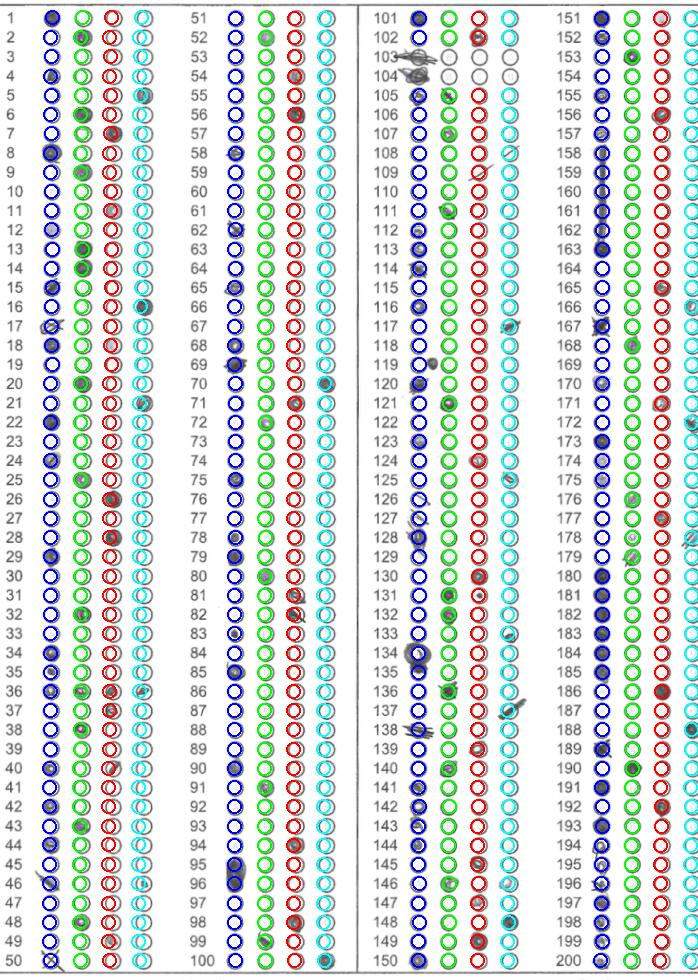
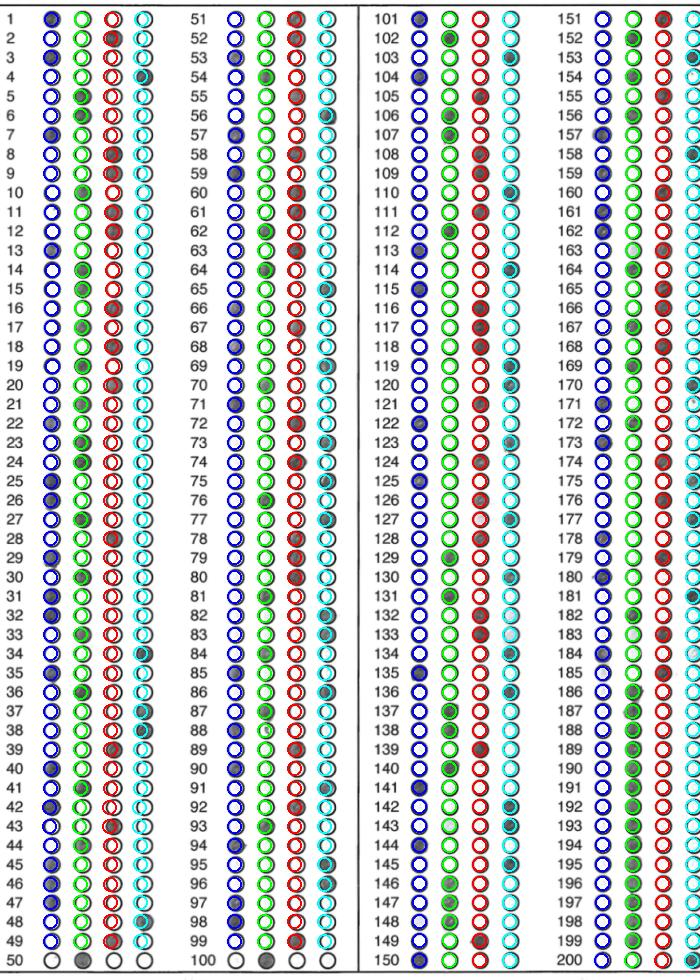
pb traitement d'image, amélioration détection marqueur et detection numéro étudiant

diff --git a/back_end/app/Routes/correction.py b/back_end/app/Routes/correction.py
@@ -205,37 +205,29 @@ def img_show(img, window_name, width=None, height=None):
 
 def preprocess(image):
     """
-    Prétraite une image pour la détection des contours.
-    
-    Args:
-        image: Image d'entrée BGR
-        
-    Returns:
-        Tuple contenant l'image en niveaux de gris et les contours détectés
+    Prétraite une image pour la détection des contours avec normalisation de l'éclairage.
     """
-    # Appliquer un filtre bilatéral pour réduire le bruit
-    blurred = cv2.bilateralFilter(image, 2, 200, 200)
+    # 1. Filtre bilatéral pour réduire le bruit tout en gardant des bords nets
+    # (J'ai légèrement augmenté les paramètres pour mieux lisser le grain de papier)
+    blurred = cv2.bilateralFilter(image, 9, 75, 75)
     
-    # Convertir en niveaux de gris
+    # 2. Convertir en niveaux de gris
     gray = cv2.cvtColor(blurred, cv2.COLOR_BGR2GRAY)
 
-    # Détecter les contours
-    edged = auto_canny(gray)
+    # 3. NOUVEAU : Normalisation du contraste (CLAHE)
+    # Permet de rattraper les zones d'ombre ou de sur-exposition du scan
+    clahe = cv2.createCLAHE(clipLimit=2.0, tileGridSize=(8,8))
+    gray_clahe = clahe.apply(gray)
+
+    # 4. Détecter les contours sur l'image corrigée
+    edged = auto_canny(gray_clahe)
     
-    # Dilater les contours pour fermer les petites discontinuités
+    # 5. Dilater puis éroder pour fermer les petites discontinuités (Fermeture morphologique)
     edged_dilate = cv2.dilate(edged, np.ones((3, 3), np.uint8), iterations=1)
-    
-    # Éroder pour affiner les contours
     edged_erode = cv2.erode(edged_dilate, np.ones((3, 3), np.uint8), iterations=1)
 
-    # Décommenter pour afficher les étapes intermédiaires
-    # img_show(blurred, "Blurred Image", height=950)
-    # img_show(gray, "Gray Image", height=950)
-    # img_show(edged, "Edges", height=950)
-    # img_show(edged_dilate, "Dilated Edges", height=950)
-    # img_show(edged_erode, "Eroded Edges", height=950)
-
-    return (gray, edged_dilate)
+    # On renvoie bien gray (pour la suite de ton code) et edged_erode (pour les marqueurs)
+    return (gray, edged_erode)
 
 
 def pdf_to_image(pdf_path, page_num=0, zoom=2.0):
@@ -293,70 +285,139 @@ def contour_center(contour):
         return (cx, cy)
     else:
         return (0, 0)
-
-
 import cv2
 import numpy as np
 
 def find_markers(edged, image=None):
-    """
-    Trouve les marqueurs triangulaires de manière robuste dans une image bruitée.
-    """
-    # 1. Petit nettoyage morphologique pour boucher les trous dans les contours
-    kernel = cv2.getStructuringElement(cv2.MORPH_RECT, (3, 3))
-    closed = cv2.morphologyEx(edged, cv2.MORPH_CLOSE, kernel)
-
-    # 2. Trouver les contours
-    cnts, _ = cv2.findContours(closed.copy(), cv2.RETR_EXTERNAL, cv2.CHAIN_APPROX_SIMPLE)
-    
-    if not cnts or image is None:
+    if image is None:
         return None
 
-    markers = []
-    markers_info = [] # Pour stocker (contour, aire, score_de_proximité)
+    gray = cv2.cvtColor(image, cv2.COLOR_BGR2GRAY)
+    _, thresh = cv2.threshold(gray, 150, 255, cv2.THRESH_BINARY_INV)
+    cnts, _ = cv2.findContours(thresh, cv2.RETR_EXTERNAL, cv2.CHAIN_APPROX_SIMPLE)
+    
+    candidates = []
+    
+    # 1. On récupère TOUS les candidats qui ressemblent de près ou de loin à un marqueur
+    for c in cnts:
+        area = cv2.contourArea(c)
+        if 150 < area < 1500: 
+            rect = cv2.minAreaRect(c)
+            w, h = rect[1]
+            if w > 0 and h > 0:
+                aspect_ratio = max(w, h) / min(w, h)
+                if 0 < aspect_ratio < 2.8:
+                    fill_ratio = area / (w * h)
+                    if 0.35 < fill_ratio < 0.65:
+                        peri = cv2.arcLength(c, True)
+                        approx = cv2.approxPolyDP(c, 0.05 * peri, True)
+                        
+                        if 3 <= len(approx) <= 5:
+                            # ON AJOUTE LE CENTRE DU TRIANGLE POUR NOTRE CALCUL SPATIAL
+                            M = cv2.moments(approx)
+                            if M["m00"] != 0:
+                                cx = int(M["m10"] / M["m00"])
+                                cy = int(M["m01"] / M["m00"])
+                                candidates.append((approx, cx, cy))
 
+    if len(candidates) < 4:
+        print(f"Erreur : Seulement {len(candidates)} candidats trouvés.")
+        return None
+
+    # 2. L'IDÉE DE GÉNIE : Le tri par position spatiale
+    # On récupère les dimensions de la page scannée
+    height, width = image.shape[:2]
+    
+    # On cherche le candidat le plus proche de chaque coin (Théorème de Pythagore)
+    
+    # Haut-Gauche (Top-Left) : Coordonnées (0, 0)
+    tl = min(candidates, key=lambda c: c[1]**2 + c[2]**2)
+    
+    # Haut-Droite (Top-Right) : Coordonnées (width, 0)
+    tr = min(candidates, key=lambda c: (c[1] - width)**2 + c[2]**2)
+    
+    # Bas-Gauche (Bottom-Left) : Coordonnées (0, height)
+    bl = min(candidates, key=lambda c: c[1]**2 + (c[2] - height)**2)
+    
+    # Bas-Droite (Bottom-Right) : Coordonnées (width, height)
+    br = min(candidates, key=lambda c: (c[1] - width)**2 + (c[2] - height)**2)
+    
+    # On extrait uniquement les contours de nos 4 gagnants
+    markers = [tl[0], tr[0], br[0], bl[0]]
+
+    # Petite sécurité : on vérifie qu'on n'a pas sélectionné le même triangle pour deux coins différents
+    # (ce qui arriverait si tout un côté de la page est rogné)
+    unique_markers = {tuple(m.flatten()) for m in markers}
+    if len(unique_markers) < 4:
+         print("Erreur : Impossible de trouver un marqueur distinct pour chaque coin.")
+         return None
+         
+
+    # Affichage
+    img_markers = image.copy()
+    cv2.drawContours(img_markers, markers, -1, (0, 255, 0), 3)
+    #img_show(img_markers, "Marqueurs détectés", height=800)
+
+    return markers
+
+
+def debug_markers(image):
+    """
+    Affiche tous les contours détectés avec leurs statistiques mathématiques
+    pour comprendre pourquoi l'algorithme les rejette.
+    """
+    if image is None:
+        print("Erreur : Aucune image fournie au débogueur.")
+        return
+
+    # On crée une copie pour dessiner dessus
+    debug_img = image.copy()
+    gray = cv2.cvtColor(image, cv2.COLOR_BGR2GRAY)
+    
+    # Même seuillage que notre fonction principale
+    _, thresh = cv2.threshold(gray, 150, 255, cv2.THRESH_BINARY_INV)
+    
+    cnts, _ = cv2.findContours(thresh, cv2.RETR_EXTERNAL, cv2.CHAIN_APPROX_SIMPLE)
+    
+    print(f"Débogage : {len(cnts)} contours totaux trouvés sur l'image.")
+    
     for c in cnts:
         area = cv2.contourArea(c)
         
-        # Filtre de taille (ajuste selon la résolution de ton PDF)
-        if 100 < area < 10000:
-            peri = cv2.arcLength(c, True)
-            # On augmente légèrement la tolérance (0.04 au lieu de 0.02)
-            approx = cv2.approxPolyDP(c, 0.04 * peri, True)
+        # On ignore juste les micro-poussières de moins de 50 pixels pour ne pas polluer l'écran
+        if area > 50:
+            rect = cv2.minAreaRect(c)
+            w, h = rect[1]
             
-            # 3. Critères de sélection robustes
-            # - Entre 3 et 5 points (souvent le bruit ajoute un point)
-            # - Doit être convexe
-            if 3 <= len(approx) <= 5 and cv2.isContourConvex(approx):
-                # On calcule la bounding box pour vérifier le ratio
-                x, y, w, h = cv2.boundingRect(approx)
-                aspect_ratio = float(w) / h
+            if w > 0 and h > 0:
+                aspect_ratio = max(w, h) / min(w, h)
+                fill_ratio = area / (w * h)
                 
-                # Un triangle de marqueur est généralement assez équilibré (pas une ligne)
-                if 0.5 < aspect_ratio < 2.0:
-                    markers.append(approx)
-                    markers_info.append(area)
+                # 1. Dessiner le contour en bleu clair
+                cv2.drawContours(debug_img, [c], -1, (255, 150, 0), 2)
+                
+                # 2. Trouver le centre pour placer le texte
+                M = cv2.moments(c)
+                if M["m00"] != 0:
+                    cx = int(M["m10"] / M["m00"])
+                    cy = int(M["m01"] / M["m00"])
+                else:
+                    cx, cy = int(rect[0][0]), int(rect[0][1])
+                    
+                # 3. Écrire les stats en rouge fluo
+                text_A = f"A: {int(area)}"
+                text_R = f"R: {aspect_ratio:.1f}"
+                text_F = f"F: {fill_ratio:.2f}"
+                
+                # J'utilise une police assez petite pour que ça rentre
+                cv2.putText(debug_img, text_A, (cx - 20, cy - 15), cv2.FONT_HERSHEY_SIMPLEX, 0.4, (0, 0, 255), 1)
+                cv2.putText(debug_img, text_R, (cx - 20, cy), cv2.FONT_HERSHEY_SIMPLEX, 0.4, (0, 0, 255), 1)
+                cv2.putText(debug_img, text_F, (cx - 20, cy + 15), cv2.FONT_HERSHEY_SIMPLEX, 0.4, (0, 0, 255), 1)
 
-    # 4. Gestion du nombre de marqueurs
-    if len(markers) < 4:
-        print(f"Erreur : Seulement {len(markers)} marqueurs trouvés. Le PDF est peut-être trop bruité.")
-        return None
+    # Sauvegarder l'image sur ton ordinateur pour pouvoir zoomer tranquillement
+    cv2.imwrite("debug_vision_ordi.jpg", debug_img)
+    print("Image sauvegardée sous 'debug_vision_ordi.jpg' dans le dossier de ton script.")
 
-    # 5. Si on en a trop, on garde les 4 dont l'aire est la plus proche de la médiane
-    # C'est plus robuste que la moyenne car la médiane ignore les valeurs aberrantes
-    if len(markers) > 4:
-        median_area = np.median(markers_info)
-        # On trie par différence absolue avec la médiane
-        indexed_markers = sorted(enumerate(markers), 
-                                 key=lambda x: abs(cv2.contourArea(x[1]) - median_area))
-        markers = [indexed_markers[i][1] for i in range(4)]
-
-    # Affichage final
-    img_markers = image.copy()
-    cv2.drawContours(img_markers, markers, -1, (0, 255, 0), 3)
-    # img_show(img_markers, "Marqueurs détectés") # Décommente si ta fonction img_show est définie
-
-    return markers
 
 
 # -----------------------------------------------------
@@ -627,15 +688,44 @@ def detect_student_number(image):
                 cv2.circle(image_with_squares, (x + x_min, y), r, (255, 0, 0), 2)
             
             # Si un cercle suffisamment rempli a été trouvé
+           # Si un cercle suffisamment rempli a été trouvé
             if max_filled_pixels > 50 and best_circle_index is not None:
-                # --- LA MODIFICATION EST ICI ---
-                # L'index 0 devient -1, l'index 1 devient 0, etc.
-                valeur_detectee = best_circle_index - 1
+                
+                chosen_circle = circles_sorted_by_y[best_circle_index]
+                y_cercle = chosen_circle[1]
+                y_carre_centre = y_min + (h / 2.0)
+                
+                # --- 1. L'ESPACEMENT RÉEL (La solution anti-décalage) ---
+                # On calcule l'écart moyen entre les cercles trouvés dans CETTE colonne
+                y_coords = [c[1] for c in circles_sorted_by_y]
+                diffs = np.diff(y_coords)
+                
+                # On ignore les grands écarts si OpenCV a raté un cercle vide au milieu
+                ecarts_valides = [d for d in diffs if h * 0.8 < d < h * 2.0]
+                
+                if len(ecarts_valides) > 0:
+                    espacement = np.median(ecarts_valides)
+                else:
+                    espacement = h * 1.3 # Fallback de sécurité
+                
+                # --- 2. CALCUL DU CHIFFRE EXACT ---
+                # Distance totale entre le centre du carré et notre cercle rempli
+                distance_totale = y_cercle - y_carre_centre
+                
+                # On convertit cette distance en "nombre de sauts"
+                nombre_de_sauts = distance_totale / espacement
+                
+                # D'après les mathématiques de ton PDF ReportLab : 
+                # Le centre du chiffre '0' se trouve toujours à environ 1.15 saut du centre du carré.
+                # Le '1' est à 2.15, le '2' est à 3.15, etc.
+                valeur_detectee = round(nombre_de_sauts - 1.15)
+                
+                # Sécurité pour éviter un bug si un étudiant coche en dehors de la zone
+                valeur_detectee = max(0, min(9, valeur_detectee))
                 
                 student_number += str(valeur_detectee)
                 
-                # Dessiner le cercle choisi en vert et écrire la valeur au-dessus du carré
-                chosen_circle = circles_sorted_by_y[best_circle_index]
+                # Dessiner le cercle choisi en vert et écrire la valeur
                 cv2.circle(image_with_squares, (chosen_circle[0] + x_min, chosen_circle[1]), chosen_circle[2], (0, 255, 0), 4)
                 cv2.putText(image_with_squares, str(valeur_detectee), (x_min, y_min - 10), cv2.FONT_HERSHEY_SIMPLEX, 0.8, (0, 255, 0), 2)
     std_clean = ""
@@ -645,8 +735,8 @@ def detect_student_number(image):
             break
     student_number = std_clean 
 
-    #cv2.imshow("Detection", image_with_squares)
-    #cv2.waitKey(0)
+    cv2.imshow("Detection", image_with_squares)
+    cv2.waitKey(0)
 
     return student_number
         
@@ -673,6 +763,8 @@ def process_pdf_for_students(pdf_path):
         
         # Prétraitement de l'image
         gray, edged = preprocess(page_img)  
+
+        #debug_markers(page_img)
         
         # Détecter les marqueurs triangulaires
         markers = find_markers(edged, page_img)
@@ -713,6 +805,8 @@ def process_pdf_for_students(pdf_path):
         question_circles = detect_sections_columns_and_contours(thresh_img, ansROI)
         student_answers = check_answers(question_circles, ansROI)
         student_results[student_number] = student_answers
+        print(student_number,page_number + 1)
+        #img_show(ansROI, f"Réponses de l'étudiant {student_number} - Page {page_number + 1}", height=800)
 
     return student_results
 
@@ -726,6 +820,6 @@ def process_pdf_for_students(pdf_path):
 # -----------------------------------------------------
 
 # Exemple d'utilisation
-#if __name__ == "__main__":
-#   pdf_path = r"C:\Users\HugoL\Downloads\scan_ccadet_2026-02-16-14-57-33.pdf"
-#   process_pdf_for_students(pdf_path)
+if __name__ == "__main__":
+   pdf_path = r"C:\Users\HugoL\Downloads\scan_apodvin_2026-03-23-10-09-38.pdf"
+   print(process_pdf_for_students(pdf_path))
